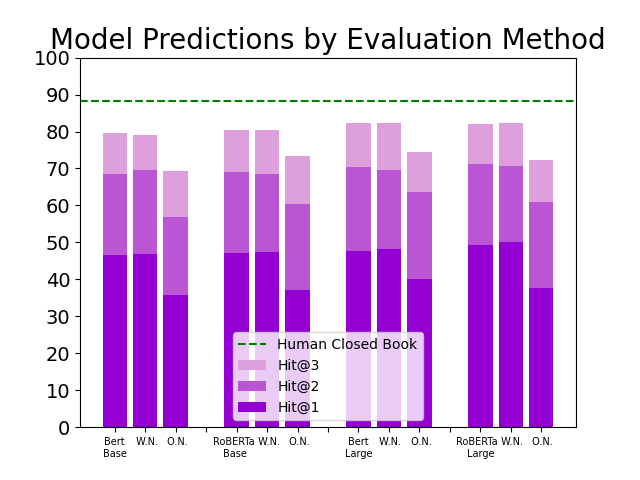
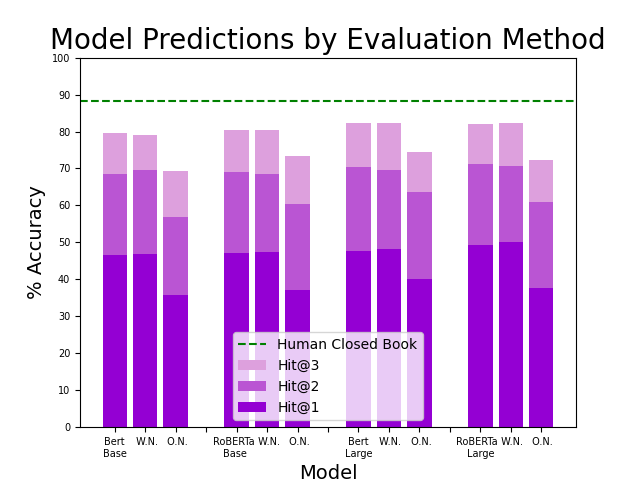
new graphs

diff --git a/src/parse_evals.py b/src/parse_evals.py
@@ -124,7 +124,9 @@ for m in big_model_names:
 model_names = model_names[:-1]
 # print(model_names) 
 plt.xticks(range(15), model_names, rotation=0, fontsize=7)
-plt.yticks([i for i in range(0,110, 10)], fontsize=14)
+plt.yticks([i for i in range(0,110, 10)], fontsize=7)
+plt.xlabel("Model", fontsize=14)
+plt.ylabel("% Accuracy", fontsize=14)
 # show the plot
 plt.legend(loc='lower center')
 plt.title("Model Predictions by Evaluation Method", fontsize=20)
